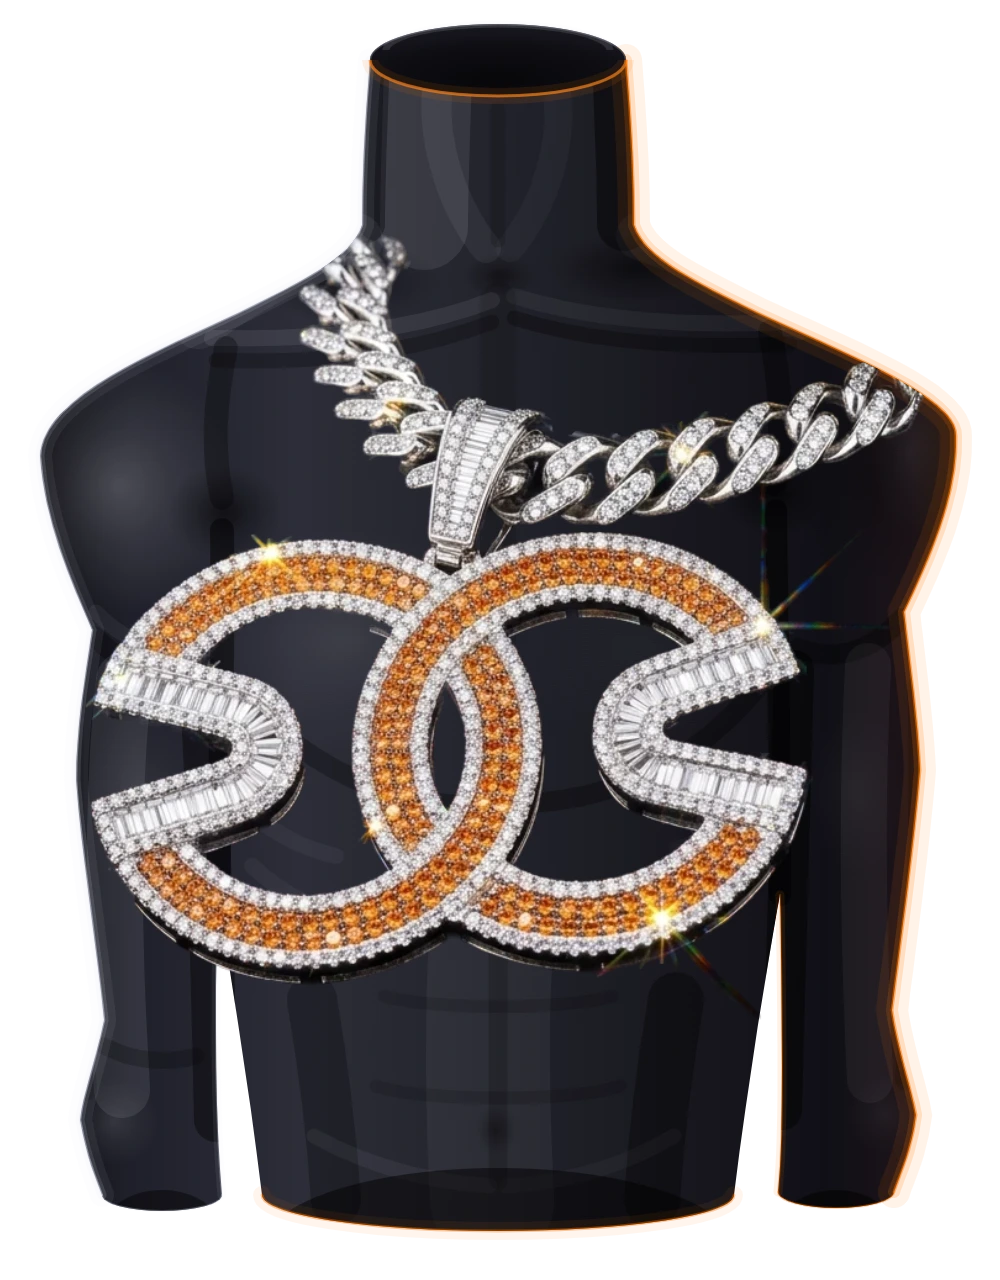
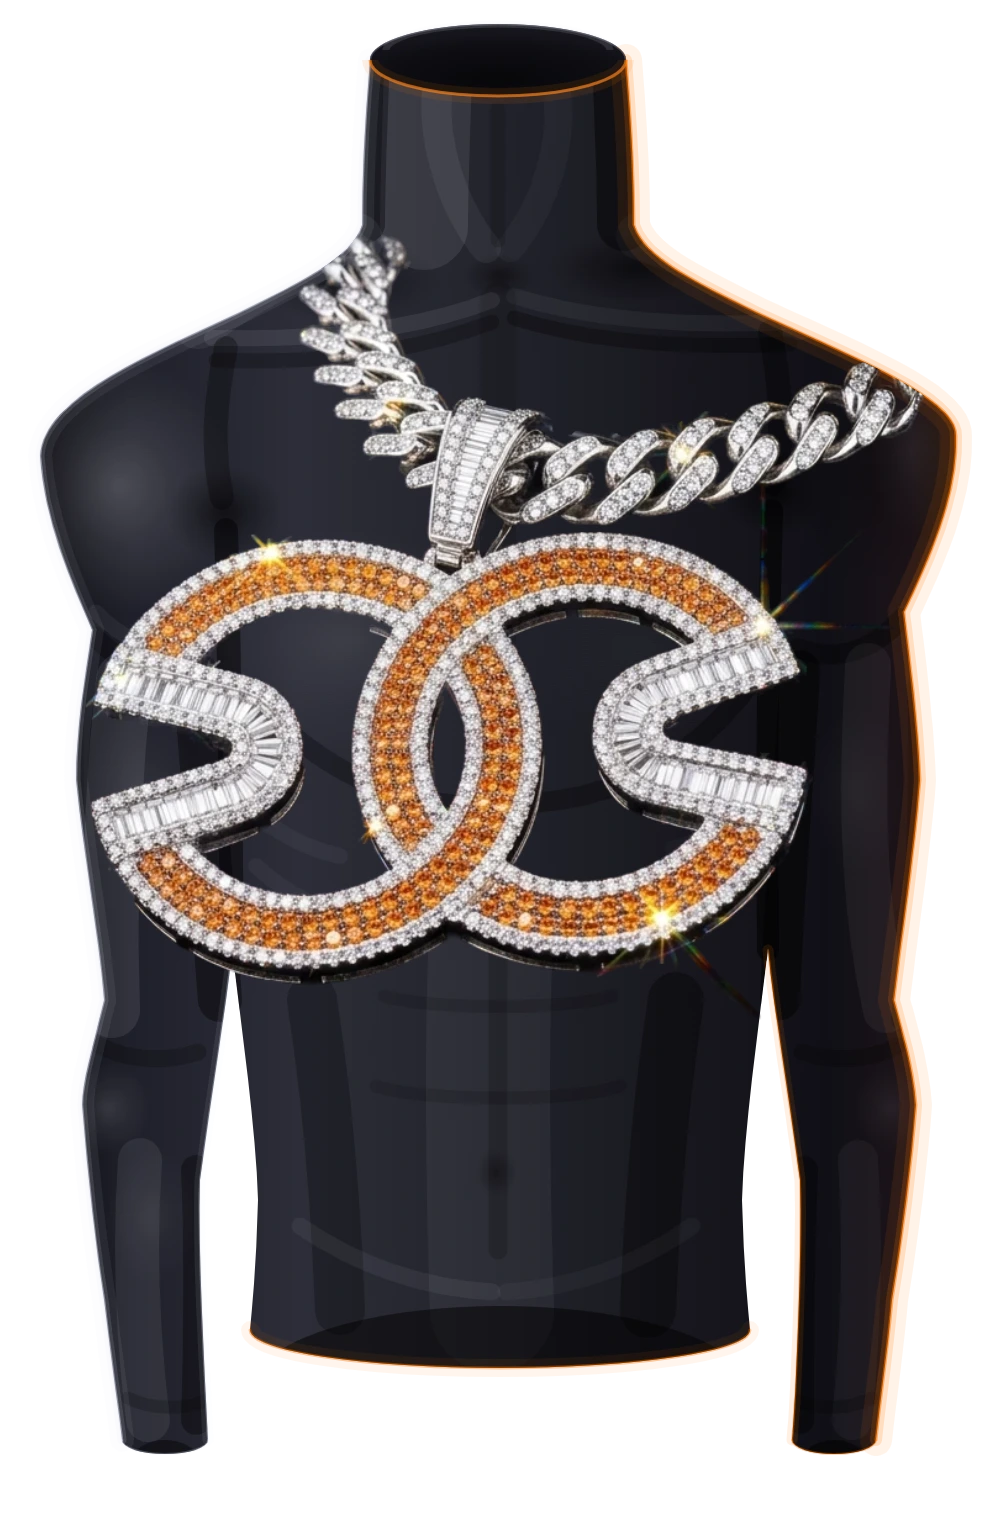
feat: os bracos do dorso descem ate o punho e se soltam do tronco
Os bracos ja existiam no commit anterior, mas nao apareciam — e nao aparecer
e o mesmo que nao existir. Iam so ate logo abaixo do cotovelo e ficavam
colados ao tronco quase toda a extensao: braco encostado no peito nao tem
contorno proprio, e o pouco de vao que sobrava embaixo ficava atras do
pingente. O resultado lia como um bloco com tres pernas.

Agora eles se soltam na altura em que a cintura estreita e seguem ate o
punho. Sao 420 de vao aberto abaixo do pingente, contra 167 antes, e e isso
que faz o olho ler dois bracos.

O vao nao pode subir mais que isso, e nao e escolha de desenho: braco em
repouso encosta mesmo na lateral do peito, porque o torax e mais largo que a
distancia em que o braco cai. Abrir o vao na altura do peito pediria afastar
os bracos do corpo, e o quadro nao tem essa largura sem encolher a joia.

O antebraco ganhou o que faltava: o olecrano pegando luz no cotovelo e o
braquiorradial engrossando logo abaixo dele, antes de afinar no punho. O
corte agora e no punho, e nao abaixo do cotovelo — sao quatro cortes no
total, com o do pescoco e o do quadril.

O quadro subiu de 1000x1280 para 1000x1520. O colar perde cerca de 4%, que e
o preco de ter o braco inteiro dentro da mesma caixa.

diff --git a/public/arte/compor.html b/public/arte/compor.html
@@ -35,13 +35,16 @@
    no ar. Tem de ser igual ao `silhueta` de dorso.svg. */
 const BUSTO = "M370 60 C 364 130 362 180 362 225 C 352 258 300 282 240 312"
   + " C 160 350 42 396 40 456 C 44 520 70 580 92 630"
-  + " C 84 680 76 730 76 780 C 82 860 96 940 104 1020"
-  + " C 94 1068 82 1096 80 1120 C 86 1156 96 1180 102 1195"
-  + " A 60 16 0 0 0 222 1195 C 216 1130 214 1020 218 895"
-  + " C 228 960 248 1080 262 1195 A 236 36 0 0 0 734 1195"
-  + " C 748 1080 768 960 780 895 C 782 1020 784 1130 778 1192"
-  + " A 58 16 0 0 0 894 1192 C 900 1174 912 1150 916 1115"
-  + " C 912 1090 898 1052 892 1010 C 902 930 914 846 920 770"
+  + " C 84 680 76 730 76 780 C 84 860 98 930 104 1000"
+  + " C 92 1050 82 1082 82 1105 C 88 1180 96 1250 104 1300"
+  + " C 112 1370 120 1420 122 1440 A 43 14 0 0 0 208 1440"
+  + " C 204 1360 198 1250 200 1180 C 212 1090 226 1010 232 950"
+  + " C 242 1030 256 1130 258 1200 C 256 1270 252 1310 250 1330"
+  + " A 250 38 0 0 0 750 1330 C 748 1310 744 1270 742 1200"
+  + " C 744 1130 758 1030 768 950 C 774 1010 788 1090 800 1180"
+  + " C 802 1250 796 1400 792 1440 A 42 14 0 0 0 876 1440"
+  + " C 880 1400 888 1350 892 1300 C 902 1240 912 1160 916 1105"
+  + " C 914 1070 902 1030 894 1000 C 902 930 914 860 920 780"
   + " C 918 720 910 664 904 612 C 928 562 958 496 956 436"
   + " C 958 396 836 350 756 312 C 696 282 644 258 634 225"
   + " C 634 180 632 130 626 60 A 128 36 0 0 0 370 60 Z";
@@ -64,7 +67,7 @@ const ABAIXO = "M-400 2200 L 1600 2200 L 1600 421 " + ARCO;
 
 const PECAS = [
   {
-    nome: "colar-500k-vestido.webp", w: 1000, h: 1280,
+    nome: "colar-500k-vestido.webp", w: 1000, h: 1520,
     arte: "/arte/dorso.svg", foto: "/images/colar-500k.webp",
     quadro: [76, 220, 880, 808],
     camadas: [
